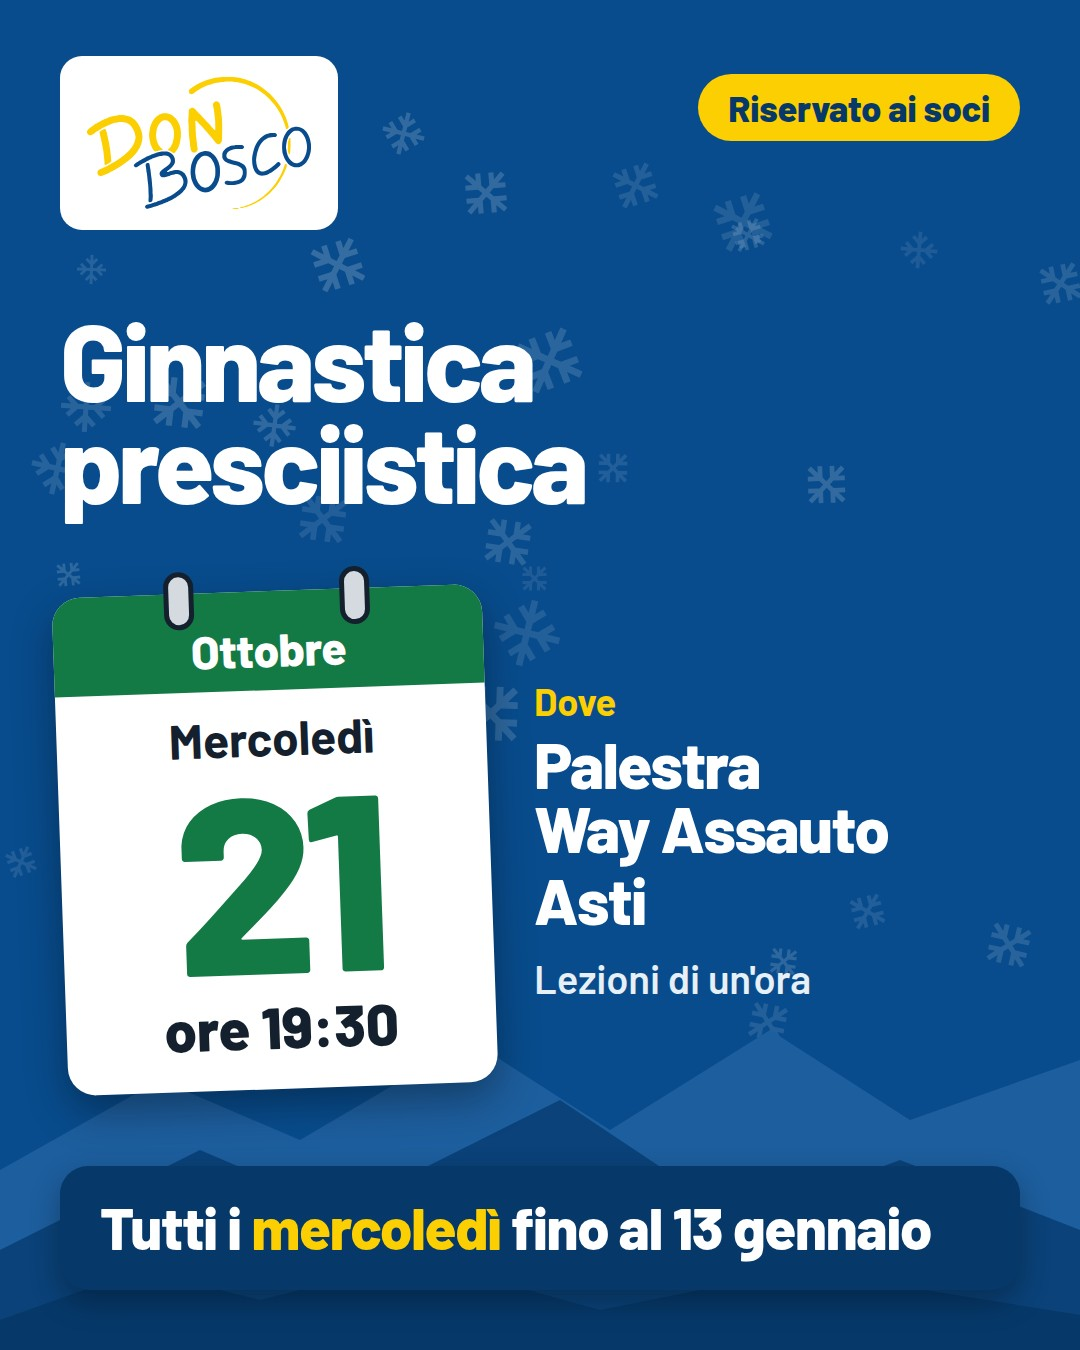
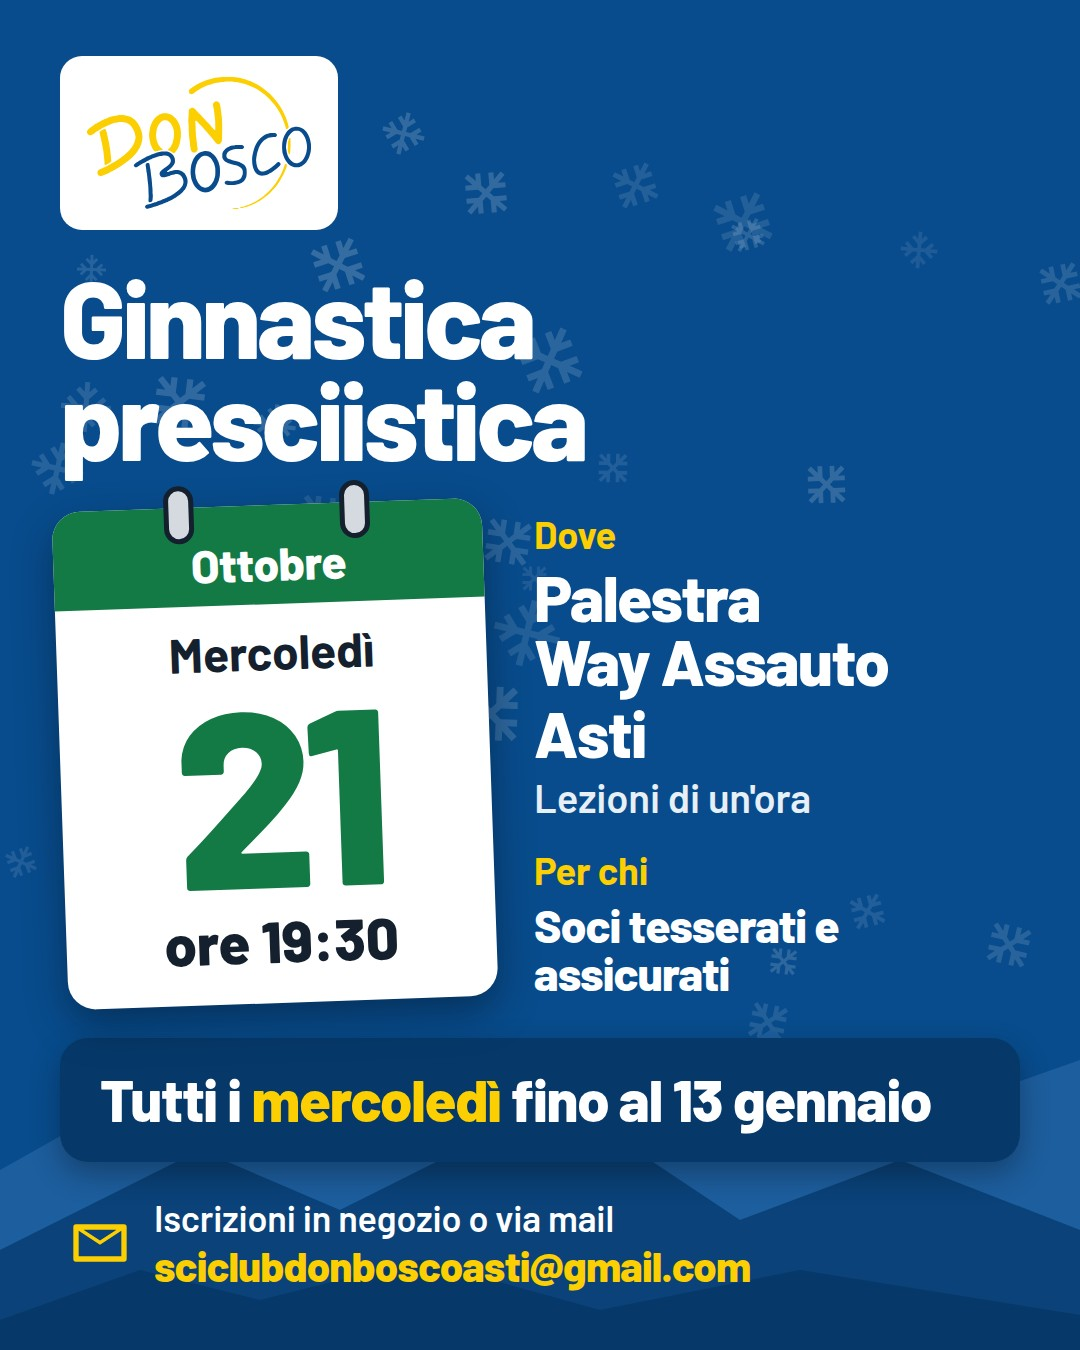
docs(social): presciistica, B e C con le stesse informazioni di A [skip ci]
Le tre proposte avevano informazioni diverse: B non diceva tesserati e
assicurati né come iscriversi, C neanche le lezioni di un'ora. Ora tutte e
tre danno quelle di A (orario e lezioni di un'ora, palestra, ogni mercoledì
fino al 13 gennaio, soci tesserati e assicurati, iscrizioni in negozio o via
mail con l'indirizzo); cambia solo lo stile. Tolta la pastiglia "Riservato ai
soci", detto ora per esteso. Nella story di B corpi un po' più piccoli per
starci; in C il divano si stringe. JPEG di B, C e panoramica rifatti, A non
cambia; i controlli di comune.js (corpi minimi, fasce della story, tagli)
passano tutti.

Claude-Session: https://claude.ai/code/session_01QL8VYt26mVCfpZEaKdF4vV

Changed region(s): [[0.0306, 0.1867, 0.9472, 0.9644], [0.6417, 0.0311, 0.9472, 0.1244], [0.8861, 0.9333, 0.9167, 0.9644]]

diff --git a/grafica/proposte-presciistica-2026/sorgenti/b-calendario.html b/grafica/proposte-presciistica-2026/sorgenti/b-calendario.html
@@ -8,27 +8,30 @@
 <style>
 /* B · Calendario. Il messaggio è la data: un foglio di calendario a strappo
  * con il primo mercoledì, e sotto in una frase fino a quando dura. Fondo blu
- * del club con la neve e le montagne di Montagna, di sera. */
+ * del club con la neve e le montagne di Montagna, di sera. Le informazioni
+ * sono quelle di A (orario e durata, palestra, fino a quando, per chi,
+ * iscrizioni e mail): cambia solo come sono disegnate. */
 html { --k: 1; }
 .contenuto { justify-content: space-between; }
-html.story { --k: 1.1; }
+html.story { --k: 1.02; }
 .cv { background: var(--blu); }
 .monti { position: absolute; left: 0; right: 0; bottom: 0; width: 1080px; height: 330px; }
 html.story .monti { height: 520px; }
 .contenuto { position: absolute; left: 60px; right: 60px; top: 56px; bottom: 60px;
   display: flex; flex-direction: column; gap: calc(34px * var(--k)); }
-html.story .contenuto { top: 262px; bottom: 350px; justify-content: space-between; gap: 0; }
+html.story .contenuto { top: 262px; bottom: 350px; justify-content: space-between; gap: 24px; }
 /* Story: i testi piccoli a corpo fisso, per non scendere sotto i 44 px. */
-html.story .pill, html.story .dove .et { font-size: 44px; }
-html.story .foglio .num { font-size: 240px; }
-html.story .titolo { font-size: 112px; }
-html.story .centro { padding-top: 26px; }
+html.story .dove .et, html.story .iscrizioni div { font-size: 44px; }
+html.story .foglio .num { font-size: 220px; }
+html.story .titolo { font-size: 110px; }
+html.story .centro { padding-top: 22px; }
+html.story .dove .chi { font-size: 48px; }
+html.story .dove .nota { font-size: 44px; }
+html.story .iscrizioni b { font-size: 46px; }
 
 .testa { display: flex; justify-content: space-between; align-items: flex-start; }
 .testa .logo-box { border-radius: 22px; padding: 12px 18px; }
 .testa .logo-box img { height: calc(150px * var(--k)); }
-.pill { background: var(--giallo); color: var(--blu-dark); border-radius: 999px; font-size: calc(36px * var(--k));
-  font-weight: 800; padding: calc(12px * var(--k)) calc(30px * var(--k)); margin-top: 18px; }
 
 .titolo { color: #fff; font-size: calc(108px * var(--k)); font-weight: 800; letter-spacing: -.035em; line-height: .95; }
 
@@ -46,13 +49,21 @@ html.story .centro { padding-top: 26px; }
 .dove { color: #fff; min-width: 0; }
 .dove .et { color: var(--giallo); font-size: calc(38px * var(--k)); font-weight: 700; }
 .dove .luogo { font-size: calc(64px * var(--k)); font-weight: 800; line-height: 1; letter-spacing: -.025em; margin-top: 8px; }
-.dove .nota { font-size: calc(40px * var(--k)); font-weight: 600; margin-top: calc(22px * var(--k)); line-height: 1.2; color: #E7EFF7; }
+.dove .nota { font-size: calc(40px * var(--k)); font-weight: 600; margin-top: 8px; line-height: 1.2; color: #E7EFF7; }
+.dove .chi { font-size: calc(46px * var(--k)); font-weight: 800; line-height: 1.05; letter-spacing: -.02em; margin-top: 8px; }
+.dove .et + .et, .dove .nota + .et { margin-top: calc(26px * var(--k)); }
 
 /* Fino a quando dura: una frase sola, senza date di pausa. */
 .durata { background: var(--blu-dark); border-radius: 28px; padding: calc(30px * var(--k)) 40px; color: #fff;
   box-shadow: 0 12px 30px rgba(0,0,0,.3); }
 .durata .frase { font-size: calc(58px * var(--k)); font-weight: 800; letter-spacing: -.02em; line-height: 1.1; }
 .durata .frase em { font-style: normal; color: var(--giallo); }
+
+/* Iscrizioni e mail, come in fondo al biglietto di A. */
+.iscrizioni { display: flex; gap: 22px; align-items: center; color: #fff; padding: 0 8px; }
+.iscrizioni svg { flex: none; width: calc(64px * var(--k)); height: calc(64px * var(--k)); }
+.iscrizioni div { font-size: calc(36px * var(--k)); font-weight: 600; line-height: 1.2; }
+.iscrizioni b { display: block; font-size: calc(42px * var(--k)); font-weight: 800; color: var(--giallo); letter-spacing: -.02em; }
 </style>
 </head>
 <body>
@@ -67,7 +78,6 @@ html.story .centro { padding-top: 26px; }
   <div class="contenuto">
     <div class="testa">
       <div class="logo-box"><img src="../../logo/logo_sciclubdonbosco.svg" alt="Sci Club Don Bosco"></div>
-      <div class="pill">Riservato ai soci</div>
     </div>
     <div class="titolo">Ginnastica presciistica</div>
     <div class="centro">
@@ -83,10 +93,16 @@ html.story .centro { padding-top: 26px; }
         <div class="luogo">Palestra Way&nbsp;Assauto</div>
         <div class="luogo">Asti</div>
         <div class="nota">Lezioni di un'ora</div>
+        <div class="et">Per chi</div>
+        <div class="chi">Soci tesserati e assicurati</div>
       </div>
     </div>
     <div class="durata">
       <div class="frase">Tutti i <em>mercoledì</em> <span style="white-space:nowrap">fino al 13 gennaio</span></div>
+    </div>
+    <div class="iscrizioni">
+      <svg viewBox="0 0 24 24" fill="#FCCF02" aria-hidden="true"><path d="M3 5h18a1 1 0 0 1 1 1v12a1 1 0 0 1-1 1H3a1 1 0 0 1-1-1V6a1 1 0 0 1 1-1zm1 2.4V17h16V7.4l-8 5.3-8-5.3zM5.8 7 12 11.1 18.2 7H5.8z"/></svg>
+      <div>Iscrizioni in negozio o via mail<b>sciclubdonboscoasti@gmail.com</b></div>
     </div>
   </div>
 </div>

diff --git a/grafica/proposte-presciistica-2026/sorgenti/c-divano.html b/grafica/proposte-presciistica-2026/sorgenti/c-divano.html
@@ -8,8 +8,9 @@
 <style>
 /* C · Divano. Manifesto: la prima riga della mail ("Alzati dal divano")
  * diventa il titolo, enorme, sul giallo del logo; un divano rimasto vuoto con
- * gli sci appoggiati. Nell'immagine solo cosa, quando e dove; il resto nel
- * testo del post. Sul giallo si scrive solo blu scuro (brand-guidelines §1),
+ * gli sci appoggiati. Le informazioni sono quelle di A (orario e durata,
+ * palestra, fino a quando, per chi, iscrizioni e mail): il divano si stringe
+ * per fare posto. Sul giallo si scrive solo blu scuro (brand-guidelines §1),
  * il logo sta su bianco (§3). */
 .cv { background: var(--giallo); color: var(--blu-dark); }
 .contenuto { position: absolute; left: 64px; right: 64px; top: 56px; bottom: 56px; display: flex; flex-direction: column; }
@@ -18,8 +19,6 @@ html.story .contenuto { top: 262px; bottom: 352px; }
 .testa { flex: none; display: flex; justify-content: space-between; align-items: flex-start; }
 .testa .logo-box { border-radius: 22px; padding: 12px 18px; }
 .testa .logo-box img { height: 150px; }
-.pill { background: var(--blu-dark); color: #fff; border-radius: 999px; font-size: 36px; font-weight: 800; padding: 12px 30px; margin-top: 18px; }
-html.story .pill { font-size: 44px; }
 
 .gancio { flex: none; font-size: 158px; font-weight: 800; letter-spacing: -.045em; line-height: .9; margin-top: 30px; }
 html.story .gancio { font-size: 176px; margin-top: 44px; }
@@ -32,14 +31,24 @@ html.story .gancio { font-size: 176px; margin-top: 44px; }
   box-shadow: 0 10px 24px rgba(6,57,106,.3); }
 html.story .nastro { font-size: 88px; }
 
-.info { flex: none; margin-top: 40px; }
+.info { flex: none; margin-top: 36px; }
 .info .quando { font-size: 60px; font-weight: 800; letter-spacing: -.025em; line-height: 1.1; }
 .info .dove { font-size: 52px; font-weight: 700; margin-top: 8px; line-height: 1.15; }
-.info .poi { font-size: 42px; font-weight: 600; margin-top: 14px; line-height: 1.2; }
-html.story .info { margin-top: 50px; }
+.info .poi { font-size: 40px; font-weight: 600; margin-top: 10px; line-height: 1.2; }
+.info .poi + .poi { margin-top: 4px; }
+/* Iscrizioni e mail, come in fondo al biglietto di A. */
+.iscrizioni { flex: none; display: flex; gap: 20px; align-items: center; margin-top: 26px; padding-top: 22px;
+  border-top: 4px dashed rgba(6,57,106,.35); }
+.iscrizioni svg { flex: none; width: 60px; height: 60px; }
+.iscrizioni div { font-size: 36px; font-weight: 600; line-height: 1.2; }
+.iscrizioni b { display: block; font-size: 42px; font-weight: 800; letter-spacing: -.02em; }
+html.story .info { margin-top: 44px; }
 html.story .info .quando { font-size: 66px; }
 html.story .info .dove { font-size: 56px; }
-html.story .info .poi { font-size: 48px; }
+html.story .info .poi { font-size: 46px; }
+html.story .iscrizioni div { font-size: 44px; }
+html.story .iscrizioni b { font-size: 48px; }
+html.story .iscrizioni svg { width: 70px; height: 70px; }
 </style>
 </head>
 <body>
@@ -47,7 +56,6 @@ html.story .info .poi { font-size: 48px; }
   <div class="contenuto">
     <div class="testa">
       <div class="logo-box"><img src="../../logo/logo_sciclubdonbosco.svg" alt="Sci Club Don Bosco"></div>
-      <div class="pill">Riservato ai soci</div>
     </div>
     <div class="gancio">Alzati<br>dal divano!</div>
     <div class="scena">
@@ -88,6 +96,11 @@ html.story .info .poi { font-size: 48px; }
       <div class="quando">Mercoledì 21 ottobre · ore 19:30</div>
       <div class="dove">Palestra Way Assauto, Asti</div>
       <div class="poi">poi tutti i mercoledì fino al 13 gennaio</div>
+      <div class="poi">Lezioni di un'ora · soci tesserati e assicurati</div>
+    </div>
+    <div class="iscrizioni">
+      <svg viewBox="0 0 24 24" fill="#06396A" aria-hidden="true"><path d="M3 5h18a1 1 0 0 1 1 1v12a1 1 0 0 1-1 1H3a1 1 0 0 1-1-1V6a1 1 0 0 1 1-1zm1 2.4V17h16V7.4l-8 5.3-8-5.3zM5.8 7 12 11.1 18.2 7H5.8z"/></svg>
+      <div>Iscrizioni in negozio o via mail<b>sciclubdonboscoasti@gmail.com</b></div>
     </div>
   </div>
 </div>

diff --git a/grafica/proposte-presciistica-2026/README.md b/grafica/proposte-presciistica-2026/README.md
@@ -10,6 +10,13 @@ di tutti i corsi; B senza "Torna il corso di", senza la linea del tempo e la
 pausa di Natale, con la frase "Tutti i mercoledì fino al 13 gennaio"; logo
 più grande in tutte e tre (150 px invece di 96–100).
 
+**Riviste di nuovo il 10/10**: B e C danno le stesse informazioni di A, cambia
+solo lo stile. In tutte e tre: titolo, mercoledì 21 ottobre, ore 19:30 e
+lezioni di un'ora, Palestra Way Assauto ad Asti, ogni mercoledì fino al 13
+gennaio, soci tesserati e assicurati, iscrizioni in negozio o via mail con
+l'indirizzo. Tolta la pastiglia "Riservato ai soci" di B e C: lo dice la riga
+dei soci tesserati e assicurati.
+
 - Testi presi dalla mail `Mail per Presciistica.docx`, niente di aggiunto:
   niente prezzo, niente nome dell'istruttore, niente telefoni.
 - Testo grande: almeno 34 px nel post e 44 px nella story.
@@ -17,10 +24,10 @@ più grande in tutte e tre (150 px invece di 96–100).
   dove Instagram mette il profilo e la risposta.
 
 **Regola per dividere immagine e testo.** L'immagine gira da sola (WhatsApp,
-schermate, inoltri): deve dire almeno cosa, quando, dove e per chi. Il testo
-del post porta il resto: istruttore, durata, pausa di Natale, requisiti,
-come iscriversi. La mail va sempre anche nel testo, perché dal testo si può
-copiare e da un'immagine no.
+schermate, inoltri): in tutte e tre c'è tutto quello che serve per andarci e
+iscriversi (le informazioni di A). Il testo del post aggiunge l'invito,
+l'istruttore dello scorso anno e la pausa di Natale. La mail va sempre anche
+nel testo, perché dal testo si può copiare e da un'immagine no.
 
 ---
 
@@ -71,13 +78,14 @@ Vi aspettiamo numerosi!
 e sotto una frase sola: "Tutti i mercoledì fino al 13 gennaio".
 Fondo blu del club con neve e montagne, come Montagna.
 
-**Nell'immagine:** primo giorno e ora, palestra, durata della lezione,
-tutti i mercoledì fino al 13 gennaio, "Riservato ai soci".
+**Nell'immagine:** le stesse informazioni di A. Il foglio porta giorno e ora;
+accanto palestra, lezioni di un'ora e per chi (soci tesserati e assicurati);
+sotto "Tutti i mercoledì fino al 13 gennaio" e le iscrizioni con la mail.
 
-**Nel testo:** soci tesserati e assicurati, istruttore, come iscriversi e mail.
+**Nel testo:** l'invito, l'istruttore dello scorso anno, la pausa di Natale.
 
 **Perché:** chi salva l'immagine come promemoria vede subito giorno, ora e
-fino a quando dura. Come iscriversi serve una volta sola: sta nel testo.
+fino a quando dura, e ha comunque tutto per iscriversi.
 
 ```text
 📅 Segnatevi il mercoledì: dal 21 ottobre torna la ginnastica presciistica!
@@ -104,15 +112,17 @@ diventa il titolo, enorme, sul giallo del logo; sotto, un divano vuoto con
 il telecomando lasciato lì e gli sci appoggiati. È la più diversa dai post
 di sempre e quella che si nota di più scorrendo.
 
-**Nell'immagine:** solo il titolo, il nome del corso, il primo appuntamento
-(giorno, ora, palestra), "poi tutti i mercoledì fino al 13 gennaio" e
-"Riservato ai soci".
+**Nell'immagine:** il titolo «Alzati dal divano!», il nome del corso e sotto
+le stesse informazioni di A: primo appuntamento (giorno, ora, palestra), poi
+tutti i mercoledì fino al 13 gennaio, lezioni di un'ora, soci tesserati e
+assicurati, iscrizioni in negozio o via mail con l'indirizzo. Il divano si è
+rimpicciolito per fare posto.
 
-**Nel testo:** tutto il resto.
+**Nel testo:** l'invito, l'istruttore dello scorso anno, la pausa di Natale.
 
-**Perché:** un manifesto funziona se si legge in un secondo: poche righe,
-grandissime. Chi è interessato apre il testo. Sul giallo si scrive solo blu
-scuro e il logo sta su bianco, come chiedono le regole del marchio.
+**Perché:** il titolo grande si nota scorrendo, le informazioni sotto bastano
+per iscriversi. Sul giallo si scrive solo blu scuro e il logo sta su bianco,
+come chiedono le regole del marchio.
 
 ```text
 Alzati dal divano: la prossima stagione sci si prepara adesso! 🛋⛷
